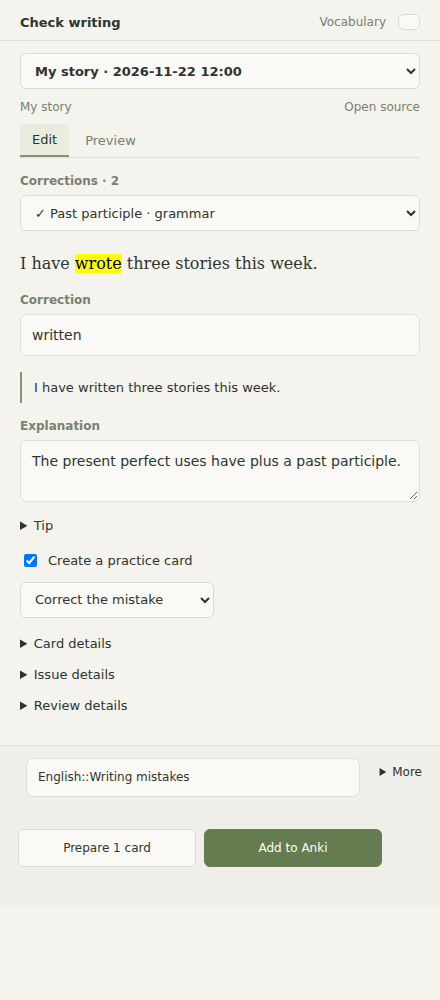
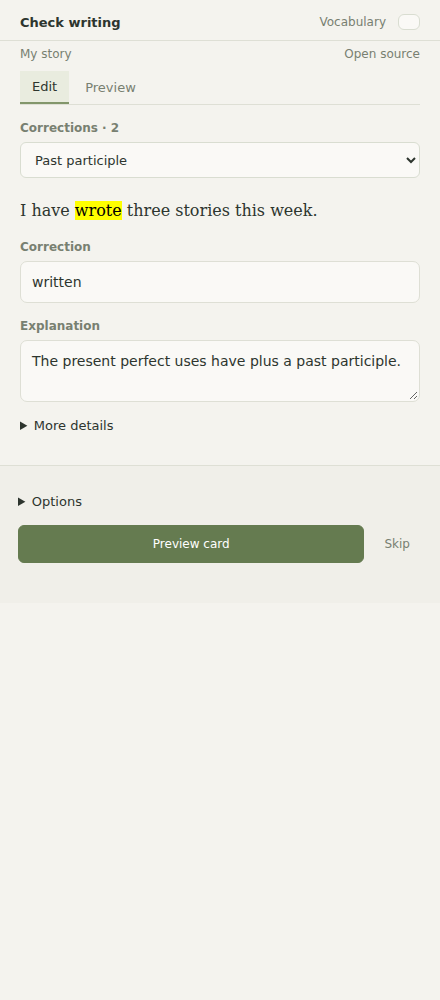
Reduce writing practice to a single-card workflow

diff --git a/src/writing-view.ts b/src/writing-view.ts
@@ -90,8 +90,10 @@ export class WritingView extends ItemView {
     });
     return input;
   }
-  private selected(s: WritingSession) {
-    return s.findings.filter((f) => f.selected && canPractise(f) && !f.noteId);
+  private choose(s: WritingSession, current: WritingFinding) {
+    for (const finding of s.findings)
+      finding.selected = finding === current && canPractise(finding);
+    this.host.persist();
   }
   private active(s: WritingSession) {
     return (
@@ -138,6 +140,7 @@ export class WritingView extends ItemView {
       return;
     }
     const pickerRow = root.createDiv({ cls: 'cc-draft-switcher' });
+    pickerRow.hidden = sessions.length < 2;
     const picker = pickerRow.createEl('select', { attr: { 'aria-label': 'Writing review' } });
     for (const session of sessions)
       picker.createEl('option', {
@@ -164,6 +167,7 @@ export class WritingView extends ItemView {
       ['edit', 'Edit'],
       ['preview', 'Preview'],
     ] as const) {
+      if (value === 'preview' && !this.active(s)?.card) continue;
       const b = this.button(
         tabs,
         title,
@@ -225,11 +229,10 @@ export class WritingView extends ItemView {
           ? 'All suggestions are dismissed. Restore one from Review details below.'
           : 'No issues were flagged. You can save the review or check another selection.',
       });
-    if (this.tab === 'edit') this.renderDetails(body, s);
     this.warning = body.createDiv({ cls: 'cc-warning', attr: { role: 'alert' } });
-    if (this.tab === 'edit') {
+    {
       const footer = root.createDiv({ cls: 'cc-footer' });
-      const destination = footer.createDiv({ cls: 'cc-destination' }),
+      const destination = this.section(footer, 'footer-tools', 'Options'),
         row = destination.createDiv({ cls: 'cc-deck-row' });
       const icon = row.createSpan({ cls: 'cc-deck-icon' });
       setIcon(icon, 'layers');
@@ -247,13 +250,12 @@ export class WritingView extends ItemView {
         false,
       );
       deck.parentElement!.querySelector('label')?.addClass('cc-sr-only');
-      const tools = this.section(destination, 'footer-tools', 'More');
-      tools.addClass('cc-destination-tools');
-      this.button(tools, 'Save review', () => void this.host.writing.save(s)).disabled =
+      this.renderDetails(destination, s);
+      this.button(destination, 'Save review', () => void this.host.writing.save(s)).disabled =
         s.phase !== 'idle' || !s.analysed;
       if (s.reviewPath)
         this.button(
-          tools,
+          destination,
           'Open saved review',
           () => void this.host.app.workspace.openLinkText(s.reviewPath!, '', true),
         );
@@ -287,6 +289,7 @@ export class WritingView extends ItemView {
       false,
     );
     this.corrected = body.createDiv({ cls: 'cc-writing-correction' });
+    this.corrected.hidden = true;
     this.field(
       body,
       'Explanation',
@@ -299,7 +302,7 @@ export class WritingView extends ItemView {
       s,
       f,
     );
-    const notes = this.section(body, 'tip', 'Tip');
+    const notes = this.section(body, 'advanced', 'More details');
     this.field(
       notes,
       'Tip',
@@ -312,17 +315,7 @@ export class WritingView extends ItemView {
       s,
       f,
     );
-    const choose = body.createDiv({ cls: 'cc-writing-choices' });
-    const label = choose.createEl('label', { cls: 'cc-writing-select' }),
-      checkbox = label.createEl('input', { type: 'checkbox' });
-    checkbox.checked = f.selected;
-    checkbox.disabled = s.phase !== 'idle' || !!f.noteId || !canPractise(f);
-    label.appendText(' Create a practice card');
-    checkbox.addEventListener('change', () => {
-      f.selected = checkbox.checked;
-      this.host.persist();
-      this.updateLive(s, f);
-    });
+    const choose = notes.createDiv({ cls: 'cc-writing-choices' });
     const format = choose.createEl('select', { attr: { 'aria-label': `Card format: ${f.title}` } });
     this.formatPicker = format;
     format.createEl('option', { text: 'Correct the mistake', attr: { value: 'correction' } });
@@ -356,7 +349,7 @@ export class WritingView extends ItemView {
               : 'Typing slip. No practice card is selected.',
       });
     if (f.card) {
-      const card = this.section(body, 'card-fields', 'Card details');
+      const card = this.section(notes, 'card-fields', 'Edit card fields');
       this.cardEditor = card;
       for (const [label, key] of [
         ['Question', 'question'],
@@ -378,7 +371,7 @@ export class WritingView extends ItemView {
           f,
         );
     }
-    const metadata = this.section(body, 'issue-details', 'Issue details');
+    const metadata = this.section(notes, 'issue-details', 'Issue details');
     this.field(
       metadata,
       'Issue title',
@@ -436,6 +429,8 @@ export class WritingView extends ItemView {
       }).disabled = s.phase !== 'idle';
   }
   private renderPreview(body: HTMLElement, s: WritingSession, f: WritingFinding) {
+    if (f.noteId)
+      body.createEl('p', { text: f.reused ? 'Existing Anki practice reused.' : 'Added to Anki.' });
     if (!f.card) {
       body.createEl('p', {
         text: 'Select this correction for practice, then prepare the card in Edit.',
@@ -503,8 +498,7 @@ export class WritingView extends ItemView {
     if (this.issuePicker)
       for (const option of Array.from(this.issuePicker.options)) {
         const finding = s.findings.find((f) => f.id === option.value);
-        if (finding)
-          option.textContent = `${finding.noteId ? 'Added · ' : finding.selected ? '✓ ' : ''}${finding.title} · ${finding.kind}`;
+        if (finding) option.textContent = `${finding.noteId ? 'Added · ' : ''}${finding.title}`;
       }
     if (this.warning) {
       this.warning.textContent = s.error;
@@ -512,8 +506,7 @@ export class WritingView extends ItemView {
     }
     if (!this.actions) return;
     this.actions.empty();
-    const selected = this.selected(s),
-      busy = s.phase !== 'idle';
+    const busy = s.phase !== 'idle';
     if (!s.analysed) {
       this.button(
         this.actions,
@@ -523,34 +516,67 @@ export class WritingView extends ItemView {
       ).disabled = busy;
       return;
     }
-    const prepare = this.button(
-      this.actions,
-      `Prepare ${selected.length || ''} ${selected.length === 1 ? 'card' : 'cards'}`.replace(
-        '  ',
-        ' ',
-      ),
-      () => void this.host.writing.generate(s),
-    );
-    prepare.disabled = busy || !selected.length;
-    let valid = !!selected.length;
-    for (const finding of selected)
-      try {
-        writingPracticeFields(finding);
-      } catch {
-        valid = false;
-      }
-    const add = this.button(
-      this.actions,
-      selected.length > 1 ? `Add ${selected.length} cards to Anki` : 'Add to Anki',
-      () => void this.host.writing.export(s),
-      'mod-cta',
-    );
-    add.disabled = busy || !valid;
-    add.title = 'Save the writing review and add the selected, prepared cards.';
+    if (!f) return;
+    if (f.noteId) {
+      const next = s.findings.find((item) => !item.dismissed && !item.noteId && item.id !== f.id);
+      if (next)
+        this.button(
+          this.actions,
+          'Next correction',
+          () => {
+            this.findingIds.set(s.id, next.id);
+            this.tab = 'edit';
+            this.back = false;
+            this.render();
+          },
+          'mod-cta',
+        ).disabled = busy;
+      return;
+    }
+    let valid = false;
+    try {
+      writingPracticeFields(f);
+      valid = true;
+    } catch {
+      /* Prepare or repair this card. */
+    }
+    if (this.tab === 'preview' && valid) {
+      this.button(
+        this.actions,
+        'Add to Anki',
+        () => {
+          this.choose(s, f);
+          void this.host.writing.export(s);
+        },
+        'mod-cta',
+      ).disabled = busy || !canPractise(f);
+    } else {
+      this.button(
+        this.actions,
+        valid ? 'Preview card' : 'Create card',
+        () => {
+          void (async () => {
+            this.choose(s, f);
+            if (!valid) await this.host.writing.generate(s);
+            if (
+              f.card &&
+              !s.error &&
+              this.active(s)?.id === f.id &&
+              (this.current || s.id) === s.id
+            ) {
+              this.tab = 'preview';
+              this.back = false;
+              this.render();
+            }
+          })();
+        },
+        'mod-cta',
+      ).disabled = busy || !canPractise(f);
+    }
     if (f && !f.noteId) {
       const discard = this.button(
         this.actions,
-        '',
+        'Skip',
         () => {
           f.dismissed = true;
           f.selected = false;
@@ -558,11 +584,10 @@ export class WritingView extends ItemView {
           this.host.persist();
           this.render();
         },
-        'cc-discard clickable-icon',
+        'cc-link-button',
       );
       discard.disabled = busy;
       discard.setAttribute('aria-label', 'Dismiss suggestion');
-      setIcon(discard, 'trash-2');
     }
   }
 }

diff --git a/tests/ui/writing.spec.ts b/tests/ui/writing.spec.ts
@@ -1,17 +1,22 @@
 import { test, expect } from '@playwright/test';
-test('writing follows Edit, Prepare, Preview and Add without showing every correction at once', async ({
-  page,
-}) => {
+test('writing follows Create, Preview and Add without extra visible fields', async ({ page }) => {
   await page.setViewportSize({ width: 440, height: 1000 });
   await page.goto('/?writing=1');
   await expect(page.getByLabel('Choose a correction', { exact: true })).toHaveCount(1);
   await expect(page.getByLabel('Correction', { exact: true })).toHaveValue('written');
-  await expect(page.getByRole('checkbox', { name: 'Create a practice card' })).not.toBeChecked();
-  await page.getByRole('checkbox', { name: 'Create a practice card' }).check();
-  await page.getByRole('button', { name: 'Prepare 1 card', exact: true }).click();
-  await expect(page.getByLabel('Answer', { exact: true })).toBeHidden();
+  await expect(page.getByRole('checkbox')).toHaveCount(0);
+  await expect(page.getByLabel('Tip', { exact: true })).toBeHidden();
+  await expect(page.getByLabel('Writing deck', { exact: true })).toBeHidden();
+  await page.evaluate(() => {
+    const second = (window as any).writingPreview.session.findings[1];
+    second.kind = 'grammar';
+    second.selected = true;
+  });
+
+  await page.getByRole('button', { name: 'Create card', exact: true }).click();
+  await expect(page.getByRole('button', { name: 'Add to Anki', exact: true })).toBeEnabled();
   await page.getByRole('button', { name: 'Preview writing card', exact: true }).click();
-  await expect(page.getByRole('button', { name: 'Add to Anki', exact: true })).toHaveCount(0);
+
   const card = page.frameLocator('iframe');
   await expect(card.locator('mark')).toHaveText('wrote');
   await page.getByRole('button', { name: 'Flip card', exact: true }).click();
@@ -20,8 +25,13 @@ test('writing follows Edit, Prepare, Preview and Add without showing every corre
   ).toBeVisible();
   await page.getByRole('button', { name: 'Edit writing review', exact: true }).click();
   await page.screenshot({ path: '.test-artifacts/writing-panel.png', fullPage: true });
+  await page.getByRole('button', { name: 'Preview card', exact: true }).click();
   await page.getByRole('button', { name: 'Add to Anki', exact: true }).click();
   await expect(page.getByText('Added to Anki.', { exact: true })).toBeVisible();
+  expect(
+    await page.evaluate(() => (window as any).writingPreview.session.findings[1].noteId),
+  ).toBeUndefined();
+  await expect(page.getByRole('button', { name: 'Next correction', exact: true })).toBeVisible();
   expect(await page.evaluate(() => (window as any).writingPreview.session.capture.selected)).toBe(
     'I have wrote three stories this week.',
   );
@@ -29,7 +39,7 @@ test('writing follows Edit, Prepare, Preview and Add without showing every corre
 test('typing keeps the same input, focus and expanded sections', async ({ page }) => {
   await page.setViewportSize({ width: 340, height: 850 });
   await page.goto('/?writing=1');
-  await page.locator('[data-writing-section=tip] > summary').click();
+  await page.locator('[data-writing-section=advanced] > summary').click();
   const input = page.getByLabel('Correction', { exact: true });
   await input.evaluate((el) => el.setAttribute('data-stable-input', 'yes'));
   await input.fill('');
@@ -37,7 +47,7 @@ test('typing keeps the same input, focus and expanded sections', async ({ page }
   await expect(input).toHaveValue('written again');
   await expect(input).toBeFocused();
   await expect(input).toHaveAttribute('data-stable-input', 'yes');
-  await expect(page.locator('[data-writing-section=tip]')).toHaveAttribute('open', '');
+  await expect(page.locator('[data-writing-section=advanced]')).toHaveAttribute('open', '');
   await expect(page.locator('.cc-writing-correction')).toHaveText(
     'I have written again three stories this week.',
   );
@@ -49,13 +59,14 @@ test('gap preview works and editing its correction invalidates only that card', 
   page,
 }) => {
   await page.goto('/?writing=1');
-  await page.getByRole('checkbox', { name: 'Create a practice card' }).check();
+
+  await page.locator('[data-writing-section=advanced] > summary').click();
   await page.getByLabel('Card format: Past participle', { exact: true }).selectOption('gap');
-  await page.getByRole('button', { name: 'Prepare 1 card', exact: true }).click();
+  await page.getByRole('button', { name: 'Create card', exact: true }).click();
   await page.getByRole('button', { name: 'Preview writing card', exact: true }).click();
   await expect(page.frameLocator('iframe').locator('.cc-gap')).toHaveCount(1);
   await page.getByRole('button', { name: 'Edit writing review', exact: true }).click();
   await page.getByLabel('Correction', { exact: true }).fill('written again');
   await expect(page.getByLabel('Question', { exact: true })).toHaveCount(0);
-  await expect(page.getByRole('button', { name: 'Add to Anki', exact: true })).toBeDisabled();
+  await expect(page.getByRole('button', { name: 'Create card', exact: true })).toBeEnabled();
 });

diff --git a/styles.css b/styles.css
@@ -372,6 +372,10 @@
 .cc-writing-panel .cc-section {
   margin: 16px 0;
 }
+.cc-writing-panel .cc-footer-actions > .cc-link-button {
+  flex: 0 0 auto;
+  padding: 0 12px;
+}
 .cc-writing-select {
   display: flex;
   gap: 8px;

diff --git a/docs/SETUP.md b/docs/SETUP.md
@@ -223,13 +223,14 @@ Writing practice is a separate mode. Existing vocabulary capture still works wit
 
 1. Select a paragraph of your own English writing in Reading Mode or Live Preview, up to **6,000 characters**.
 2. Click **Check writing** beside the selection, or run **Context Cards: Check selected writing** from the command palette. There is also a context-menu entry.
-3. Choose a finding from **Corrections**. The panel shows one at a time: the original fragment is highlighted, **Correction** is editable, and **Explanation** and the collapsed **Tip** explain the suggestion. The source note is never automatically corrected or marked by this mode.
-4. Expand **Issue details** to change a title, highlighted fragment or classification. The trash button dismisses the current suggestion; **Review details** lets you restore it, read the full selection or recheck the analysis. Optional style, unclear meaning and obvious typos cannot become practice cards. If the meaning is unclear, resolve it yourself before classifying the finding as a definite grammar/vocabulary correction.
-5. Tick **Create a practice card** for worthwhile grammar or vocabulary mistakes. Choose **Correct the mistake** or **Complete the sentence**. Nothing is selected automatically.
-6. Click **Prepare cards**, then open **Preview** and **Flip card** to review the exercise. Expand **Card details** in Edit to change the question, answer, corrected sentence, explanation or hint. Changing the underlying correction invalidates its old exercise, so prepare it again. Typing keeps focus and expanded sections stay open.
-7. Return to **Edit**, check the writing deck and click **Add to Anki**. This saves the review and exports the selected, prepared exercises. To save feedback alone, expand **More** beside the deck and choose **Save review**.
+3. Choose a finding from **Corrections**. The panel shows one at a time: the original fragment is highlighted, followed by editable **Correction** and **Explanation** fields. The source note is never automatically corrected or marked by this mode.
+4. Click **Create card** for a useful grammar or vocabulary correction. The exercise opens in **Preview** automatically. Use **Flip card** to inspect the answer, then **Add to Anki** to save the review and export this one card. **Next correction** continues after export. Use **Skip** to dismiss a suggestion.
+5. For extra control, expand **More details** in Edit. It contains Tip, card type (**Correct the mistake** or **Complete the sentence**), editable card fields and issue metadata. Changing the underlying correction invalidates its old exercise. Typing keeps focus and expanded sections stay open.
+6. **Options** in the footer contains the writing deck, **Save review**, and **Review details** with the full selection, recheck and restore controls. The review selector appears at the top only when there is more than one review.
 
-Invalid model responses get one automatic retry within your configured request timeout. If preparing several cards partly fails, already prepared cards and their edits are kept: click **Prepare cards** again to retry only missing or invalid drafts. Connection failures are shown without an automatic retry. If analysis keeps failing, try a shorter selection or increase **Request timeout** in Local model settings.
+Optional style, unclear meaning and obvious typos cannot become practice cards. If the meaning is unclear, resolve it yourself before classifying the finding as a definite grammar/vocabulary correction.
+
+Invalid model responses get one automatic retry within your configured request timeout. Prepared cards and their edits are kept if another operation fails. Retry **Create card** after an error. Connection failures are shown without an automatic retry. If analysis keeps failing, try a shorter selection or increase **Request timeout** in Local model settings.
 
 **One selected finding creates one card.** Correction cards ask you to repair the highlighted fragment; gap cards use Anki's typed-answer comparison. Hints are collapsed on the front. Treat the answer as a model answer: other natural wording can be valid, and Anki still lets you assess your own response.
 
